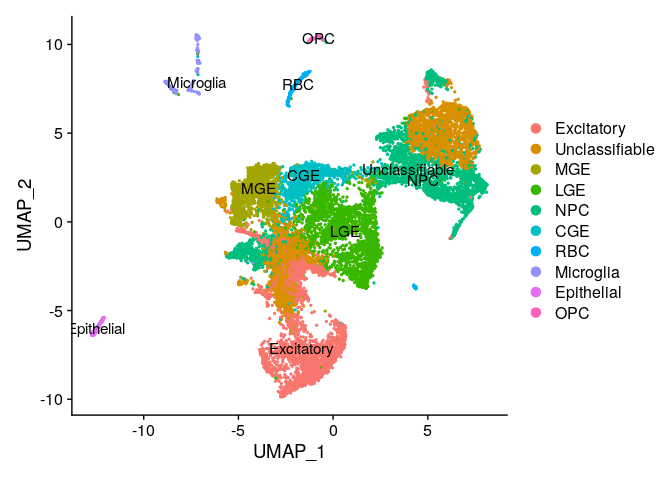
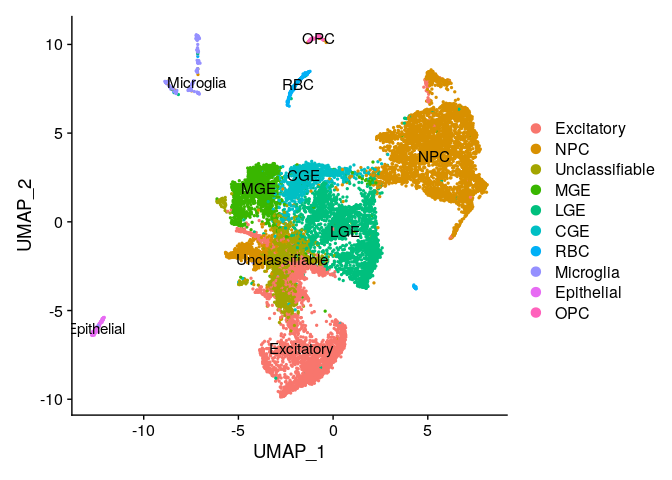
:recycle: rename cluster

diff --git a/code/05_seurat_annot/05-3_gw11_annot.md b/code/05_seurat_annot/05-3_gw11_annot.md
@@ -110,26 +110,26 @@ data <- RunUMAP(data, dims = 1:dim)
     ## To use Python UMAP via reticulate, set umap.method to 'umap-learn' and metric to 'correlation'
     ## This message will be shown once per session
 
-    ## 12:44:33 UMAP embedding parameters a = 0.9922 b = 1.112
+    ## 23:00:42 UMAP embedding parameters a = 0.9922 b = 1.112
 
-    ## 12:44:34 Read 15994 rows and found 204 numeric columns
+    ## 23:00:42 Read 15994 rows and found 204 numeric columns
 
-    ## 12:44:34 Using Annoy for neighbor search, n_neighbors = 30
+    ## 23:00:42 Using Annoy for neighbor search, n_neighbors = 30
 
-    ## 12:44:34 Building Annoy index with metric = cosine, n_trees = 50
+    ## 23:00:42 Building Annoy index with metric = cosine, n_trees = 50
 
     ## 0%   10   20   30   40   50   60   70   80   90   100%
 
     ## [----|----|----|----|----|----|----|----|----|----|
 
     ## **************************************************|
-    ## 12:44:40 Writing NN index file to temp file /tmp/RtmpUsCyIm/file1070746a1045
-    ## 12:44:40 Searching Annoy index using 1 thread, search_k = 3000
-    ## 12:44:53 Annoy recall = 100%
-    ## 12:44:54 Commencing smooth kNN distance calibration using 1 thread with target n_neighbors = 30
-    ## 12:44:55 Initializing from normalized Laplacian + noise (using irlba)
-    ## 12:44:56 Commencing optimization for 200 epochs, with 779896 positive edges
-    ## 12:45:07 Optimization finished
+    ## 23:00:48 Writing NN index file to temp file /tmp/RtmpQJoOfj/file13ff174310a0
+    ## 23:00:48 Searching Annoy index using 1 thread, search_k = 3000
+    ## 23:01:02 Annoy recall = 100%
+    ## 23:01:02 Commencing smooth kNN distance calibration using 1 thread with target n_neighbors = 30
+    ## 23:01:03 Initializing from normalized Laplacian + noise (using irlba)
+    ## 23:01:04 Commencing optimization for 200 epochs, with 779896 positive edges
+    ## 23:01:15 Optimization finished
 
 ``` r
 DimPlot(data, reduction = "umap", label = T)
@@ -429,7 +429,7 @@ degs
 
 ``` r
 new.label <- c(
-  "Excitatory", "Unclassifiable", "Unclassifiable", "MGE", "LGE", "NPC",
+  "Excitatory", "NPC", "Unclassifiable", "MGE", "LGE", "NPC",
   "CGE", "LGE", "Excitatory", "NPC", "RBC", "Microglia",
   "NPC", "NPC", "Epithelial", "OPC", "Unclassifiable", "Unclassifiable"
 )
